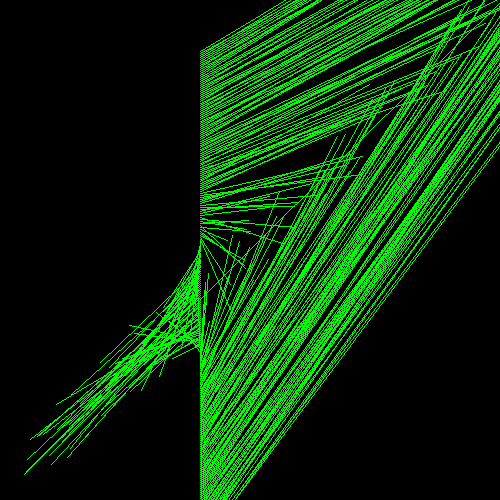
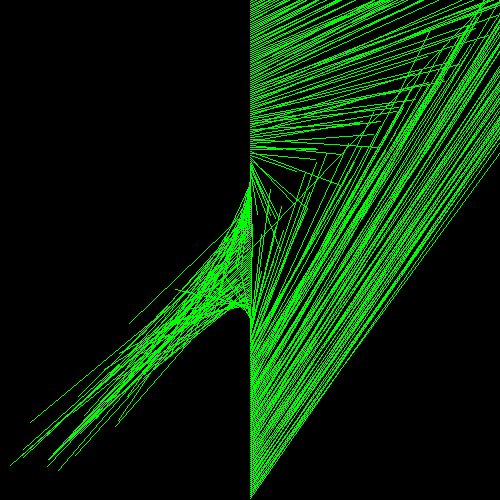
3

Changed region(s): [[0.03, 0.0, 1.0, 1.0]]

diff --git a/main.py b/main.py
@@ -35,7 +35,7 @@ clear_screen(screen)
 matrix = new_matrix(0)
 x, y, z = 250, 250, 1
 for i in range(250):
-	add_edge(matrix, x, y, z, int( i * math.sin(i*math.pi)) + 200, int( i * math.cos(i*math.pi)) + 200 , 1)
+	add_edge(matrix, x, y, z, int( i * math.sin(i*math.pi)) + 250, int( i * math.cos(i*math.pi)) + 250 , 1)
 	x = int( i*math.pi ) + random.randrange(50)
 	y = int( i*math.pi ) + random.randrange(50)
 	z = 1
